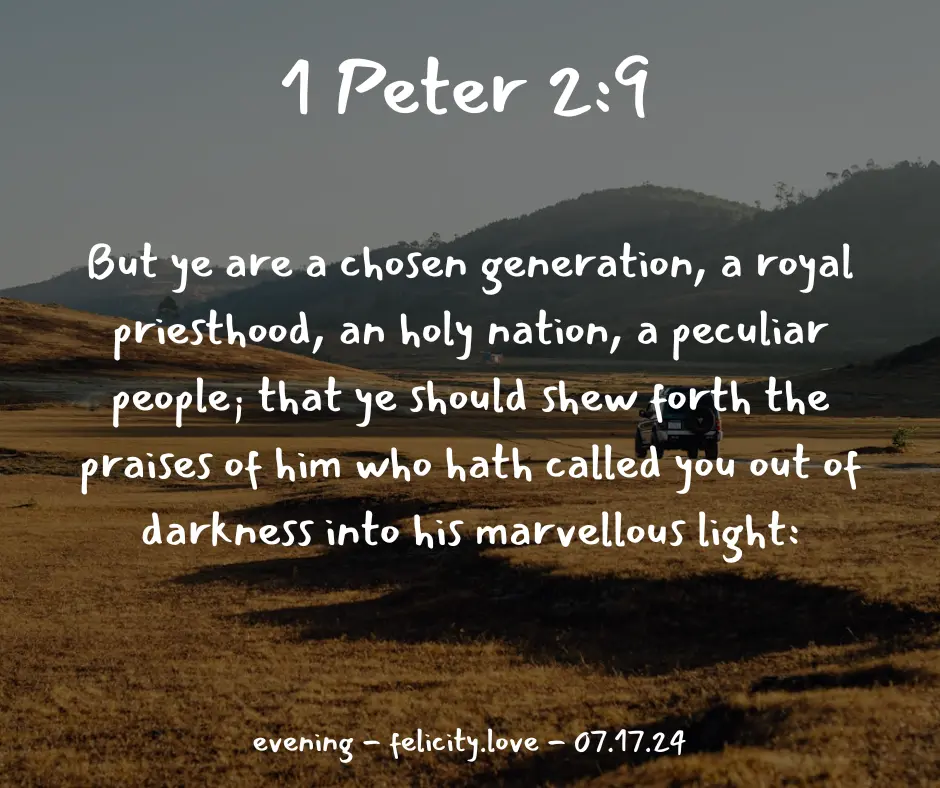
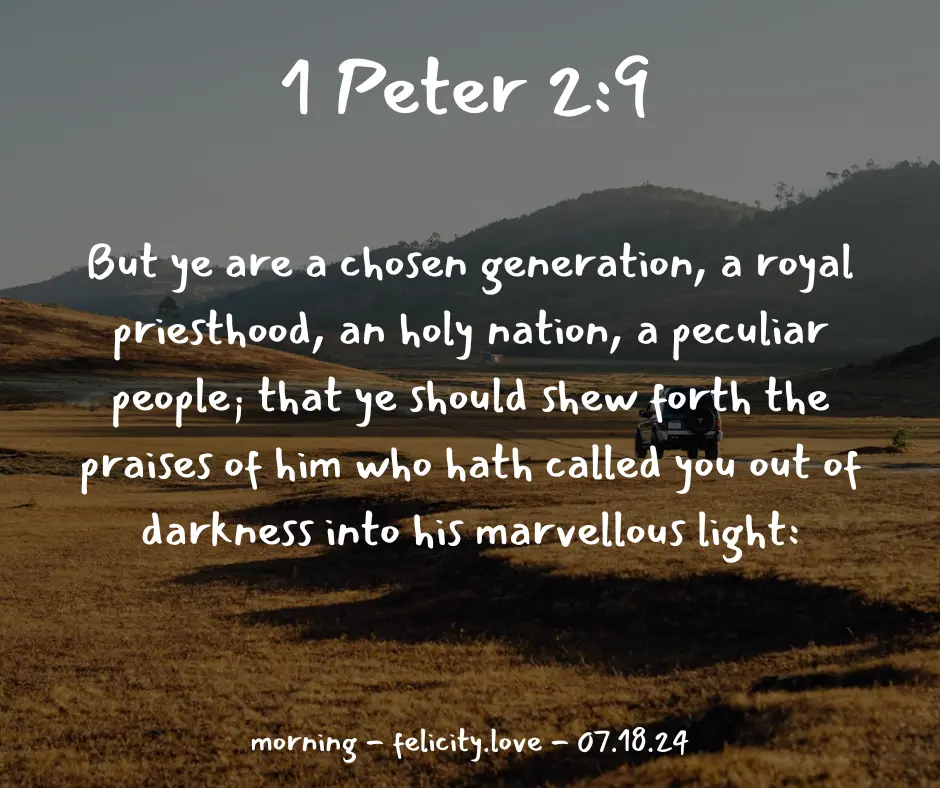
071924 morning devotional

Changed region(s): [[0.2777, 0.9137, 0.7404, 0.9746]]

diff --git a/_posts/2024-07-19-morning.md b/_posts/2024-07-19-morning.md
@@ -1,0 +1,19 @@
+---
+layout: post
+author: Joey
+date: 2024-07-19 6:24:00 -0500
+featured_image: "/img/071924_daily_devotional_morning.webp"
+title: July 19th 2024 - Morning Devotional
+---
+
+[![July 19th 2024 - Morning Devotional](/img/071924_daily_devotional_morning.webp)](/img/071924_daily_devotional_morning.webp)
+
+Psalm 139:14
+
+I will praise thee; for I am fearfully and wonderfully made: marvellous are thy works; and that my soul knoweth right well.
+
+<!-- <hr>
+
+Please consider purchasing a mug to support the page by clicking the image below, thank you!
+
+[![June 20th 2024 - Morning Devotional - Mug](/img/mugs/061124_morning_mug.webp)](https://www.joeybrinkman.com/shop) -->
